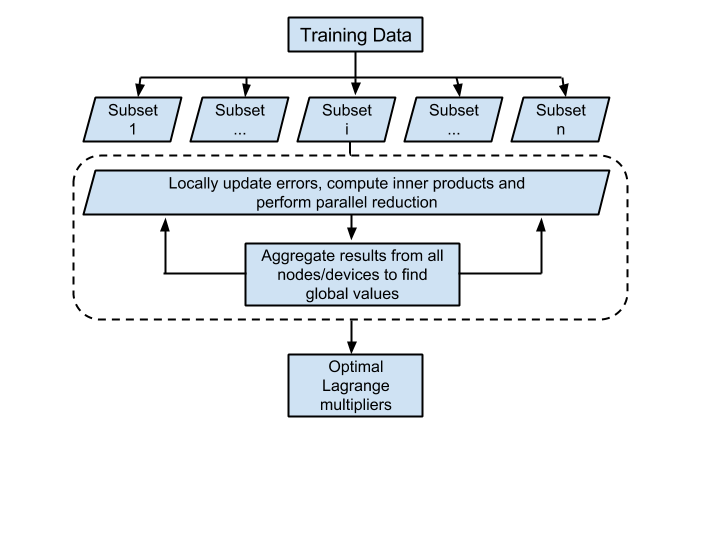
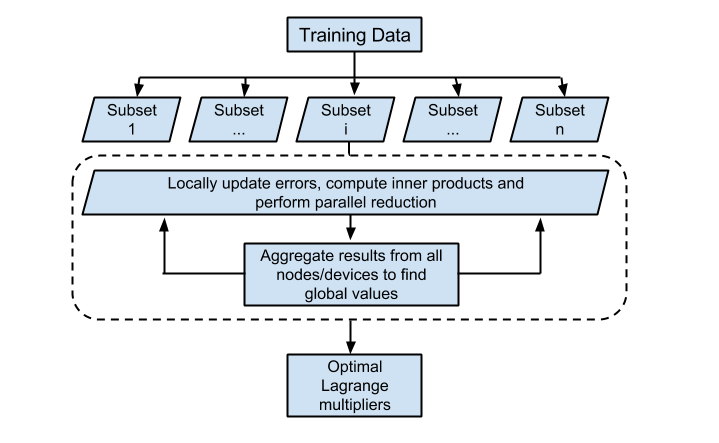
Fix image dimensions and correct more typos

diff --git a/index.html b/index.html
@@ -35,8 +35,7 @@
 <a id="summary" class="anchor" href="#summary" aria-hidden="true"><span class="octicon octicon-link"></span></a>Summary</h3>
 
 <p dir="ltr">
-	We are going to implement a parallel Support Vector Machine algorithm for binary classification using the Legion parallel programming system. This would be
-	achieved by parallelizing the modified Sequential Minimal Optimization algorithm used by popular tools like LIBSVM, for distributed heterogeneous
+	We are going to implement a distributed, parallel Support Vector Machine training algorithm for binary classification using the Legion parallel programming system. We plan to do this by parallelizing the modified Sequential Minimal Optimization algorithm used by popular tools like LIBSVM, and using Legion to port this to distributed heterogeneous
 	architectures.
 </p>
 
@@ -44,7 +43,7 @@
 <a id="background" class="anchor" href="#background" aria-hidden="true"><span class="octicon octicon-link"></span></a>Background</h3>
 
 <p dir="ltr">
-	Support Vector Machines (SVMs) is a widely used supervised machine learning algorithm, which is essentially a discriminative classifier used for linear and
+	The Support Vector Machine (SVM) is a widely used supervised machine learning algorithm, which is essentially a discriminative classifier used for linear and
 	nonlinear classification tasks. The training of an SVM is a Quadratic Programming (QP) optimization problem, where the primal is converted to its dual
 	form. Platt originally proposed the SMO technique for solving the dual QP problem, by breaking it down to a series of smallest possible QP problems.
 </p>
@@ -56,7 +55,7 @@
 	proposed by Cao et. al. <sup>[1]</sup>, and extend it to multiple GPU devices based on Herrero-Lopez et. al.'s <sup>[2]</sup> methodology.
 </p>
 <p dir="ltr">
-	The parallel calculation of error terms and updates of the Lagrangian multipliers will ideally scale almost linearly with the number of sub processes, and
+	The parallel calculation of error terms and updates of the Lagrangian multipliers will (ideally) scale with the number of sub processes, and
 	allow for the use of parallel reduction with low communication overheads for global constants. We are using Legion to create a portable implementation that
 	leverages distributed environments, while creating a high-performance mapping interface specifically targeted at the latedays cluster.
 </p>
@@ -295,11 +294,11 @@
 </ul>
 
   <h3>
-<a id="goals" class="anchor" href="#goals" aria-hidden="true"><span class="octicon octicon-link"></span></a>Goals and Deliverables</h3>
+<a id="platform" class="anchor" href="#platform" aria-hidden="true"><span class="octicon octicon-link"></span></a>Platform Choice</h3>
 
 <p dir="ltr">
 	We plan to use Legion and the latedays cluster. As mentioned above, this would allow us to create a portable implementation of our distributed SVM along
-	with a high-performance mapping interface specifically targeted at the latedays.
+	with a high-performance mapping interface specifically targeted at latedays.
 </p>
 
   <h3>
